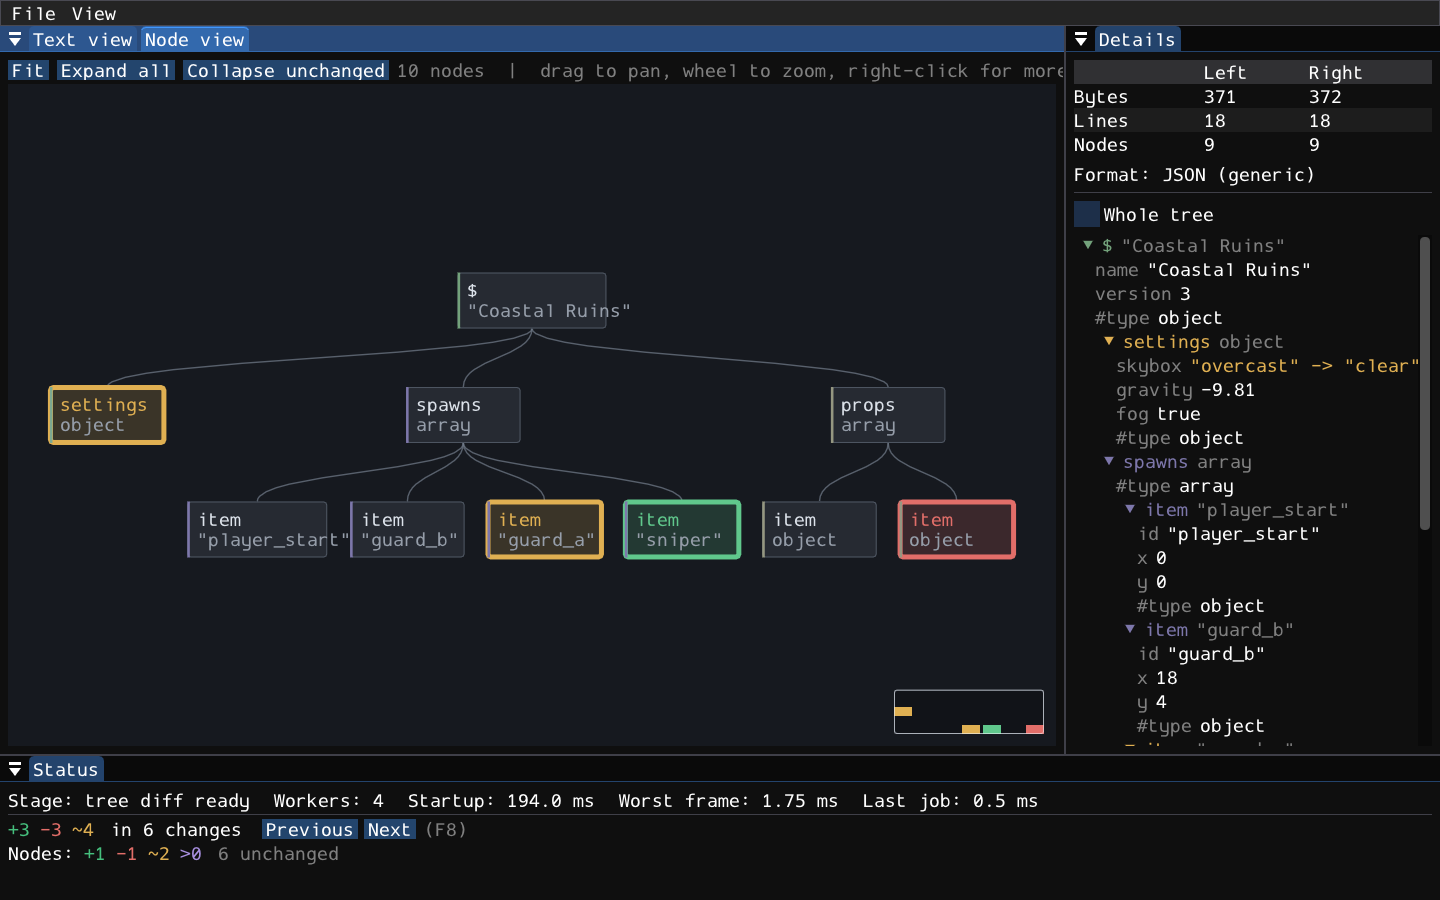
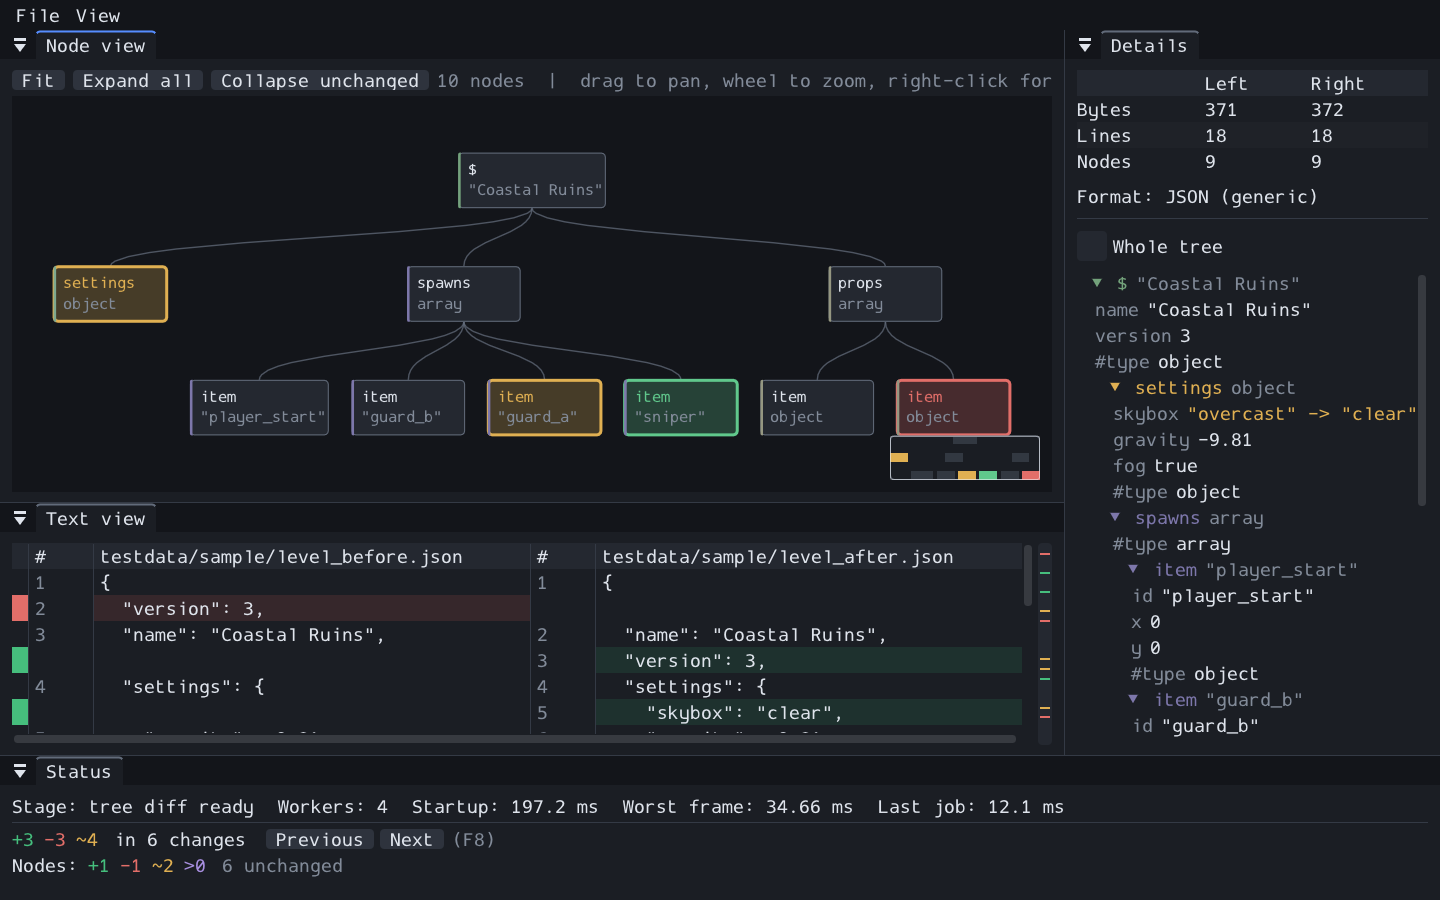
Retake the README screenshots with the flat theme
The same three views of the same sample pairs, taken with --screenshot
from a clean layout: the two node view shots show the fresh layout with
the text view below, and the text view shot stacks the views as tabs so
the lines have the height. The captions say which is which.

diff --git a/README.md b/README.md
@@ -12,14 +12,15 @@ tool rather than work on it.
 ![The node view: a behaviour tree drawn as a graph, each card coloured by what happened to it, with the details panel listing every property and what it changed from](docs/screenshots/node_view.png)
 
 The node view. A behaviour tree drawn left to right because the format asked
-for it, each card coloured by what happened to the node, and the details
-panel saying what each property changed from.
+for it, each card coloured by what happened to the node, the text view of the
+same pair below it, and the details panel saying what each property changed
+from.
 
 ![The text view: a side-by-side line diff of the same pair, with the words that changed picked out inside rewritten lines](docs/screenshots/text_view.png)
 
-The text view of a larger pair. The same comparison as lines, with the words
-that changed picked out inside a rewritten line, and the node outline beside
-it.
+The text view of a larger pair, with the two views stacked as tabs. The same
+comparison as lines, with the words that changed picked out inside a rewritten
+line, and the node outline beside it.
 
 ![A JSON level file in the node view: objects are nodes, a list of scalars is one property, and a reordered array item reads as a move](docs/screenshots/json_node_view.png)
 
